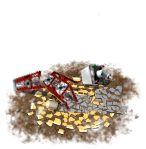
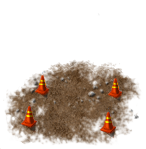
demolish animation functionality

Changed region(s): [[0.0822, 0.4295, 0.8767, 0.9396]]

diff --git a/src/app/misc/construction-actions/construction-actions.component.ts b/src/app/misc/construction-actions/construction-actions.component.ts
@@ -19,6 +19,8 @@ export class ConstructionActionsComponent implements OnInit {
 
   public slotActions;
 
+  public allGameSlots;
+
   constructor(private _logicService: LogicService) {
     this._logicService.castSlotId.subscribe(slotId => this.slotNumber = slotId);
 
@@ -31,12 +33,14 @@ export class ConstructionActionsComponent implements OnInit {
     this._logicService.cast.subscribe(gameDataValues => this.gameValues = gameDataValues);
 
     this.slotActions = this._logicService.slotActions();
+
+    this.allGameSlots = this.topSlots.concat(this.midSlots, this.bottomSlots);
   }
 
   ngOnInit() {
   }
 
-  changePowerOfBuildings(array, image){
+  changePowerOfBuildings(array, image) {
     for (let i = 0; i < array.length; i++) {
       if (array[i].condition === "build") {
         let arrSlots = array[i].img.slice(0, 18);
@@ -45,15 +49,22 @@ export class ConstructionActionsComponent implements OnInit {
     }
   }
 
-  performDemolishBuilding(gameSlot){
+  performDemolishBuilding(gameSlot, materials) {
+    debugger
+    let currentHouse = gameSlot[this.slotNumber].img.slice(0, 7);
+
     let gameObject = gameSlot.find(elem => elem.number == this.slotNumber);
-    if (gameObject.condition !== "build") {
+    if (gameObject.condition === "underConstruction") {
       alert("This building is under construction. You can not demolis yet")
       return;
     }
 
-    gameObject.img = "HOUSE0/NONE1";
-    gameObject.condition = "bought";
+    if (gameObject.condition === "underDemolishing") {
+      alert("This building is already under demolishing")
+      return;
+    }
+
+    this.demolishAnimation(gameObject, currentHouse);
 
     this.gameValues.energy = this.gameValues.energy - gameObject.energy;
     this.gameValues.maxEnergy = this.gameValues.maxEnergy - gameObject.maxEnergy;
@@ -65,35 +76,56 @@ export class ConstructionActionsComponent implements OnInit {
       this.changePowerOfBuildings(this.bottomSlots, "NONE00");
       this.gameValues.income = this.gameValues.incomeStopped;
     } else {
-    this.changePowerOfBuildings(this.topSlots, "CONSTRUCT08");
-    this.changePowerOfBuildings(this.midSlots, "CONSTRUCT08");
-    this.changePowerOfBuildings(this.bottomSlots, "CONSTRUCT08");
+      this.changePowerOfBuildings(this.topSlots, "CONSTRUCT08");
+      this.changePowerOfBuildings(this.midSlots, "CONSTRUCT08");
+      this.changePowerOfBuildings(this.bottomSlots, "CONSTRUCT08");
 
-    this.gameValues.income = this.gameValues.incomeBeforeStopped - gameObject.income;
-    this.gameValues.incomeBeforeStopped = this.gameValues.incomeBeforeStopped - gameObject.income;
-    this._logicService.changeObject(this.gameValues);
-    this.isModalClosed = true;
-    this.resetSlotData(gameObject);
+      this.gameValues.income = this.gameValues.incomeBeforeStopped - gameObject.income;
+      this.gameValues.incomeBeforeStopped = this.gameValues.incomeBeforeStopped - gameObject.income;
+
+      this.gameValues.materials = this.gameValues.materials + parseInt(materials);
+      this._logicService.changeObject(this.gameValues);
+
+      this.isModalClosed = true;
+
+      this.resetSlotData(gameObject);
+
     }
   }
 
-  resetSlotData(slot){
-      slot.income = 0;
-      slot.maxEnergy = 0;
-      slot.energy = 0;
+  resetSlotData(slot) {
+    slot.income = 0;
+    slot.maxEnergy = 0;
+    slot.energy = 0;
   }
 
-  demolishBuilding() {
+  demolishAnimation(object, currentHouse) {
+      object.condition = "underDemolishing";
+
+    for (let i = 1; i <= 4; i++) {
+      let timeout = i === 1 ? 50 : (i - 1) * 1200;
+      setTimeout(() => {
+        object.img = `${currentHouse}/DEMOLISH/DEMOLISH0${i}`;
+      }, timeout);
+    }
+
+    setTimeout(() => {
+      object.img = "HOUSE0/NONE1";
+      object.condition = "bought";
+    }, 4850);
+  }
+
+  demolishBuilding(materials) {
     if (this.slotNumber <= 4) {
-      this.performDemolishBuilding(this.topSlots);
+      this.performDemolishBuilding(this.topSlots, materials);
       return;
     }
     if (this.slotNumber <= 9) {
-      this.performDemolishBuilding(this.midSlots);
+      this.performDemolishBuilding(this.midSlots, materials);
       return;
     }
     if (this.slotNumber <= 14) {
-      this.performDemolishBuilding(this.bottomSlots);
+      this.performDemolishBuilding(this.bottomSlots, materials);
       return;
     }
   }

diff --git a/src/app/misc/construction-actions/construction-actions.component.html b/src/app/misc/construction-actions/construction-actions.component.html
@@ -6,16 +6,13 @@
       <img src="assets/icons/upgrade_star.png" alt="">
       <div>
         <span>Income: </span>
-        <br />
         <span>+ 10%</span>
         <br />
         <span>Cost: </span>
-        <br />
-        <span>3000</span><span>$</span>
+        <span>{{allGameSlots[slotNumber].income * 4}}</span><span>$</span>
         <br />
         <span>Materials: </span>
-        <br />
-        <span>30</span>
+        <span>{{allGameSlots[slotNumber].income / 10}}</span>
       </div>
     </div>
   </button>
@@ -26,15 +23,12 @@
       <img src="assets/icons/upgrade_energy.png" alt="">
       <div>
         <span>Income: </span>
-        <br />
         <span>+ 10%</span>
         <br />
         <span>Cost: </span>
-        <br />
         <span>3000</span><span>$</span>
         <br />
         <span>Materials: </span>
-        <br />
         <span>30</span>
       </div>
     </div>
@@ -46,24 +40,27 @@
       <img src="assets/icons/no_repair.png" alt="">
       <div>
         <span>Workers: </span>
-        <br />
         <span>3</span>
         <br />
         <span>Cost: </span>
-        <br />
         <span>3000</span><span>$</span>
         <br />
         <span>Materials: </span>
-        <br />
         <span>30</span>
       </div>
     </div>
   </button>
 
-  <button [attr.data-dismiss]="isModalClosed ? 'modal': 'noModal'" (click)="demolishBuilding()" class="action-data">
+  <button [attr.data-dismiss]="isModalClosed ? 'modal': 'noModal'"
+    (click)="demolishBuilding(demolishMaterials.innerText)" class="action-data">
     <span>Demolish Construction</span>
     <div class="action-info">
       <img src="assets/icons/demolish.png" alt="" />
+      <div>
+        <span>Return Materials: </span>
+        <br />
+        <span #demolishMaterials>{{allGameSlots[slotNumber].income / 10}}</span>
+      </div>
     </div>
   </button>
 

diff --git a/src/app/misc/construction-actions/construction-actions.component.css b/src/app/misc/construction-actions/construction-actions.component.css
@@ -3,11 +3,14 @@
     color: white;
     background: transparent;
     border: 0px;
+    max-width: 180px;
+    width: 100%;
 }
 
 .action-info {
     display: flex;
     align-items: center;
+    text-align: left;
 }
 
 .action-data:hover {
@@ -16,7 +19,7 @@
 }
 
 .container-action {
-    font-size: 14px;
+    font-size: 12.5px;
     display: flex;
     flex-wrap: wrap;
     justify-content: space-between;
